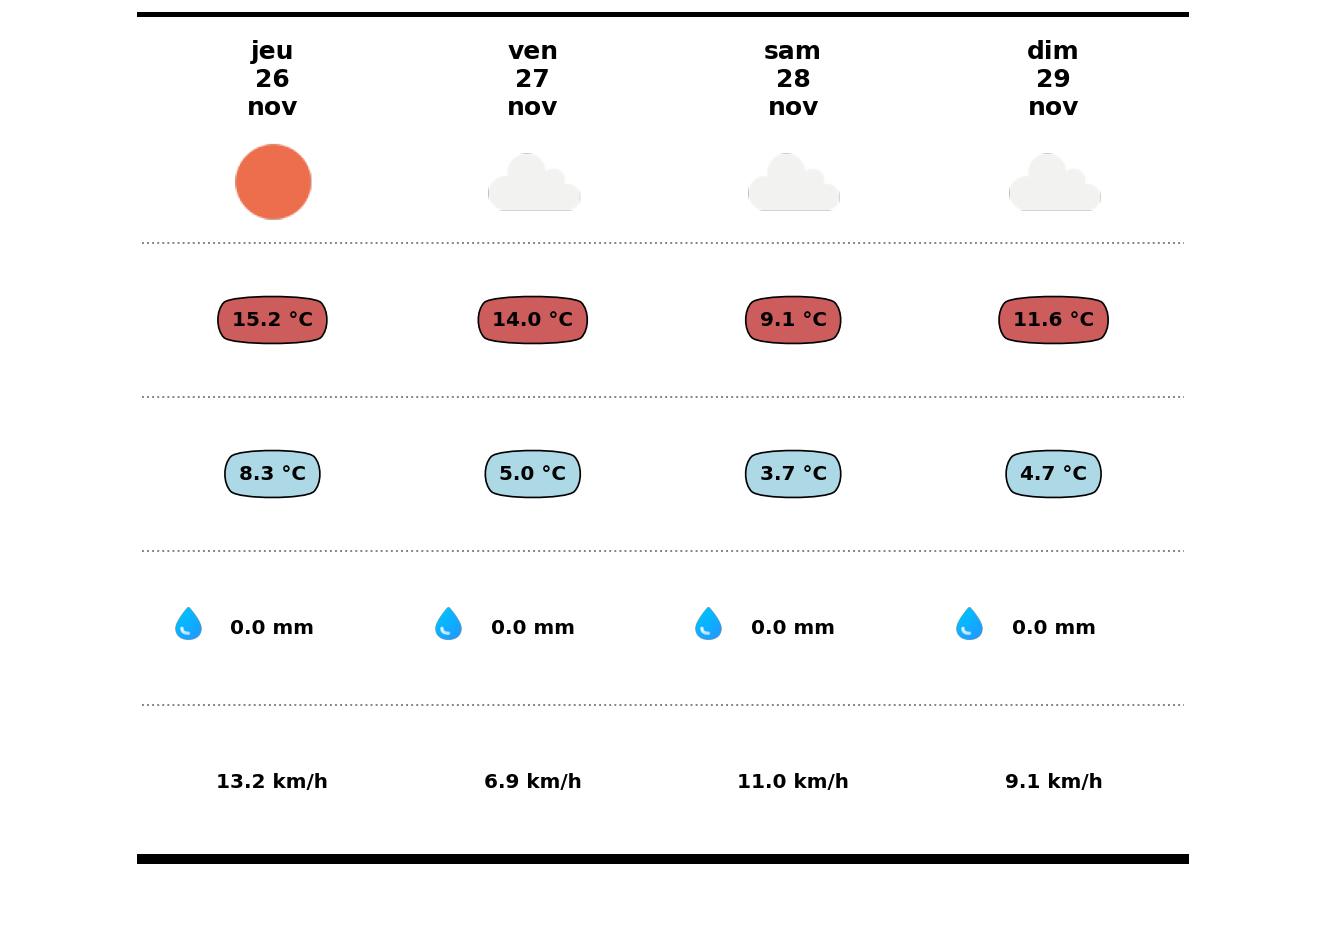
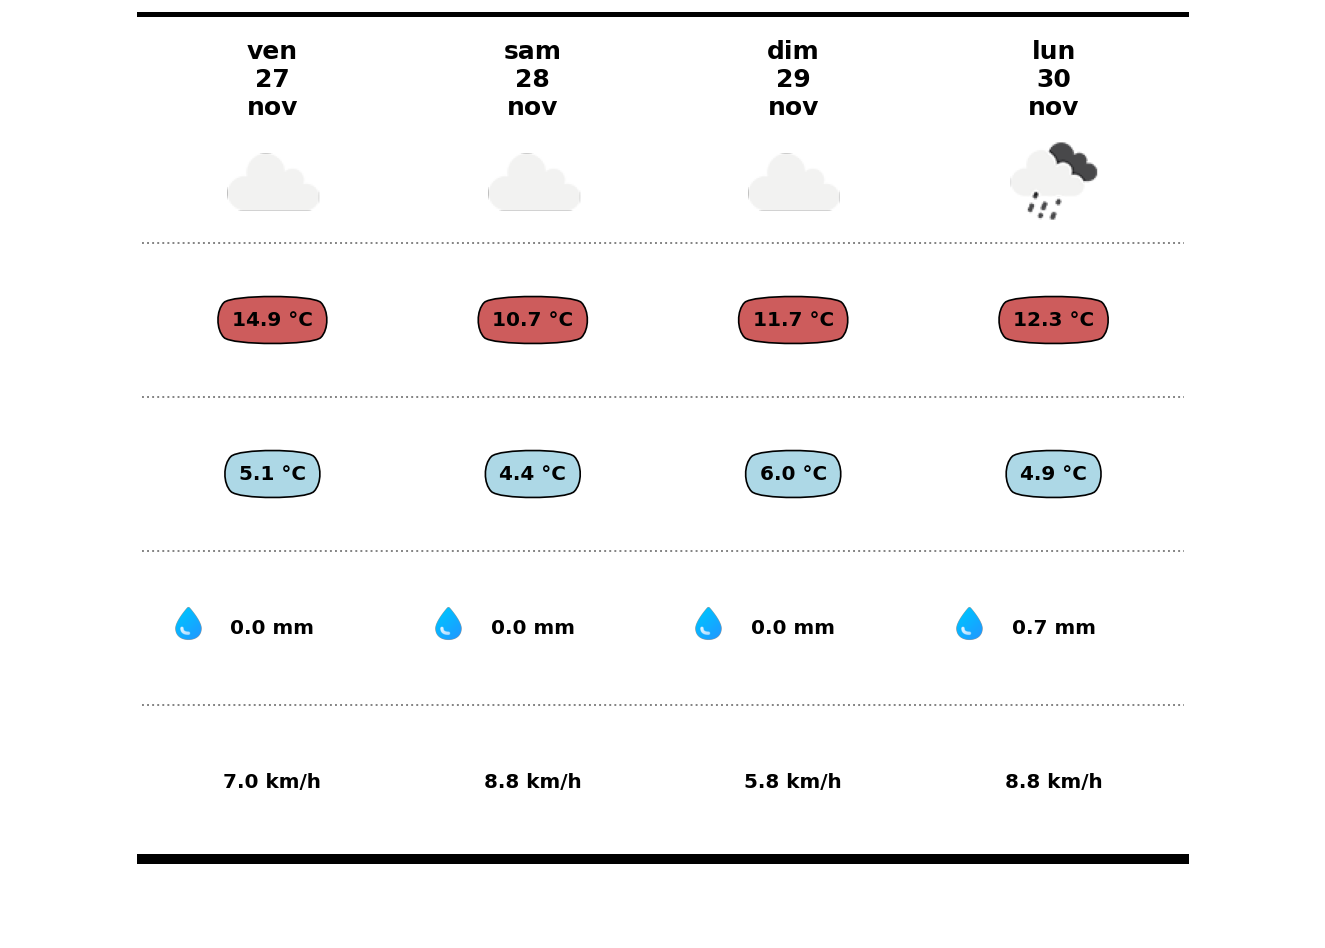
Built site for gh-pages

diff --git a/index.html b/index.html
@@ -136,7 +136,7 @@ ul.task-list li input[type="checkbox"] {
 
 
 <p>Voici la météo à Montpellier pour aujourd’hui et les 3 prochains jours :</p>
-<div id="db3b3556" class="cell" data-execution_count="3">
+<div id="e78b0859" class="cell" data-execution_count="3">
 <div class="cell-output cell-output-display">
 <div>
 <figure class="figure">
@@ -145,9 +145,9 @@ ul.task-list li input[type="checkbox"] {
 </div>
 </div>
 </div>
-<div id="caacc9e3" class="cell" data-execution_count="4">
+<div id="a7b99af3" class="cell" data-execution_count="4">
 <div class="cell-output cell-output-stdout">
-<pre><code>Site généré le 2026-11-26 à 14:53:07</code></pre>
+<pre><code>Site généré le 2026-11-27 à 14:50:59</code></pre>
 </div>
 </div>
 
